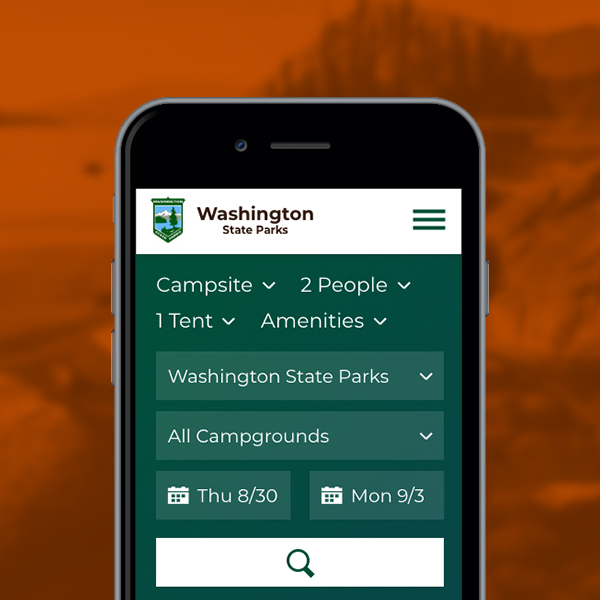
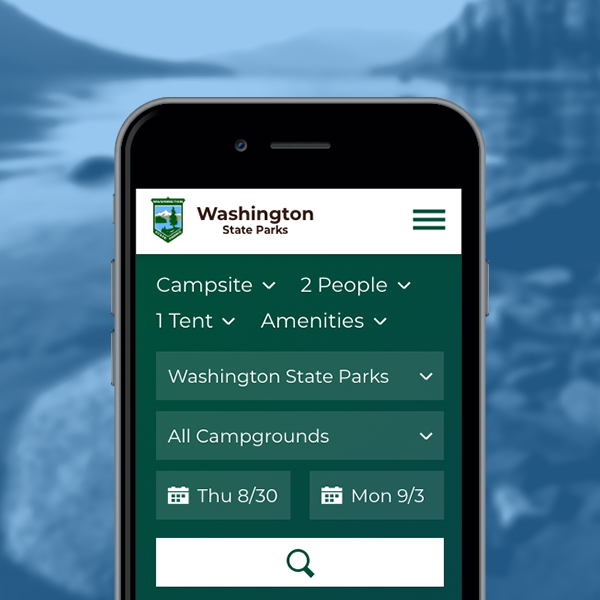
updated thumbnail and background images

diff --git a/src/assets/styles/containers/_caseStudy.scss b/src/assets/styles/containers/_caseStudy.scss
@@ -23,6 +23,7 @@
 		}
 		&.mightyvet {
 			background-image: url(../../images/mightyvet-background-gradient.jpg);
+			background-position: top left;
 		}
 
 		.case-study-hero {

diff --git a/src/assets/styles/vendors/_skeleton.scss b/src/assets/styles/vendors/_skeleton.scss
@@ -177,6 +177,7 @@
 @media (min-width: 769px) {
 	.container {
 		width: 66.6%;
+		max-width: 110rem;
 	}
 }
 
